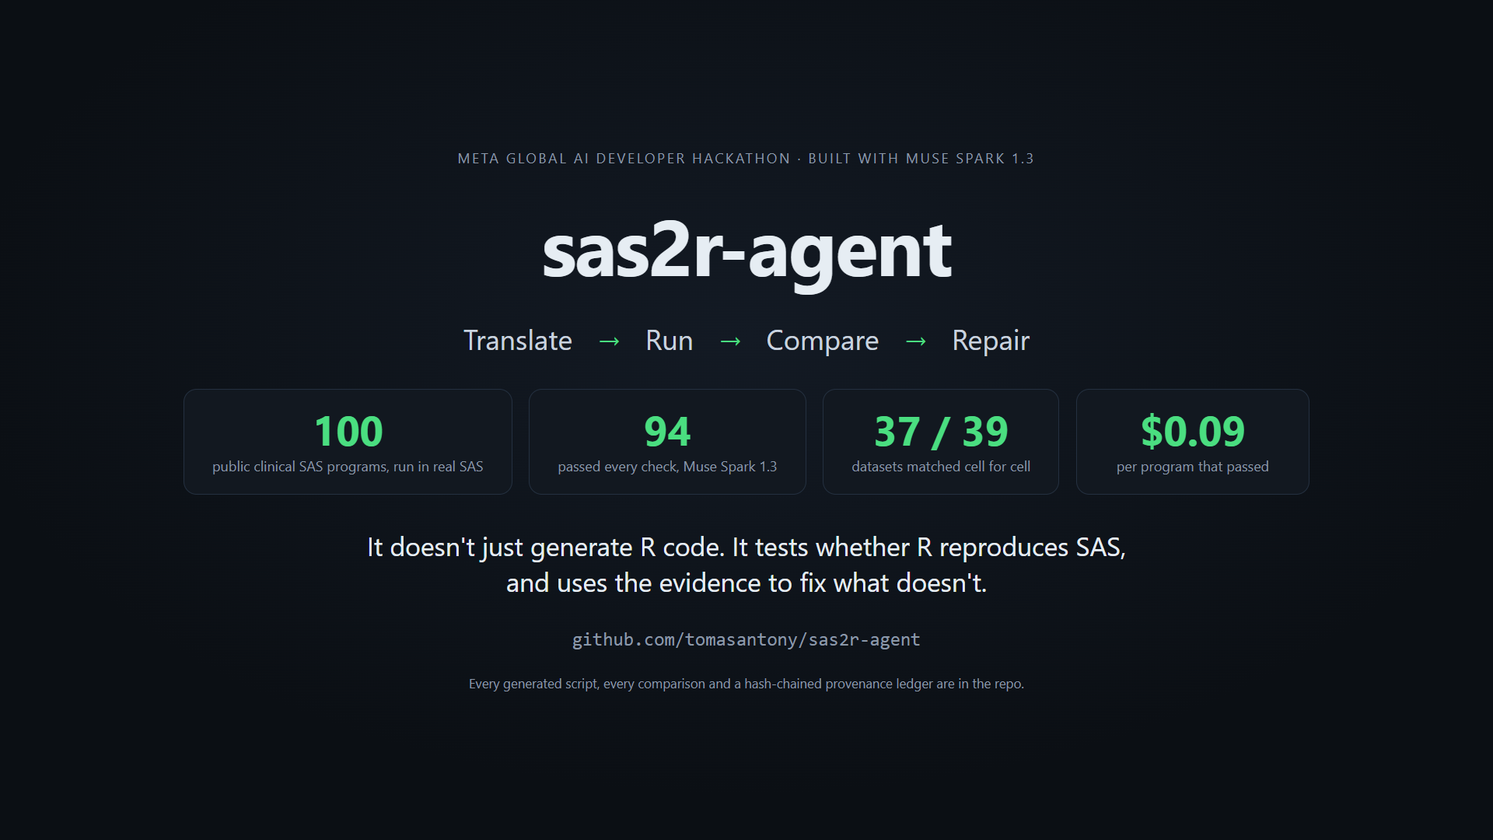
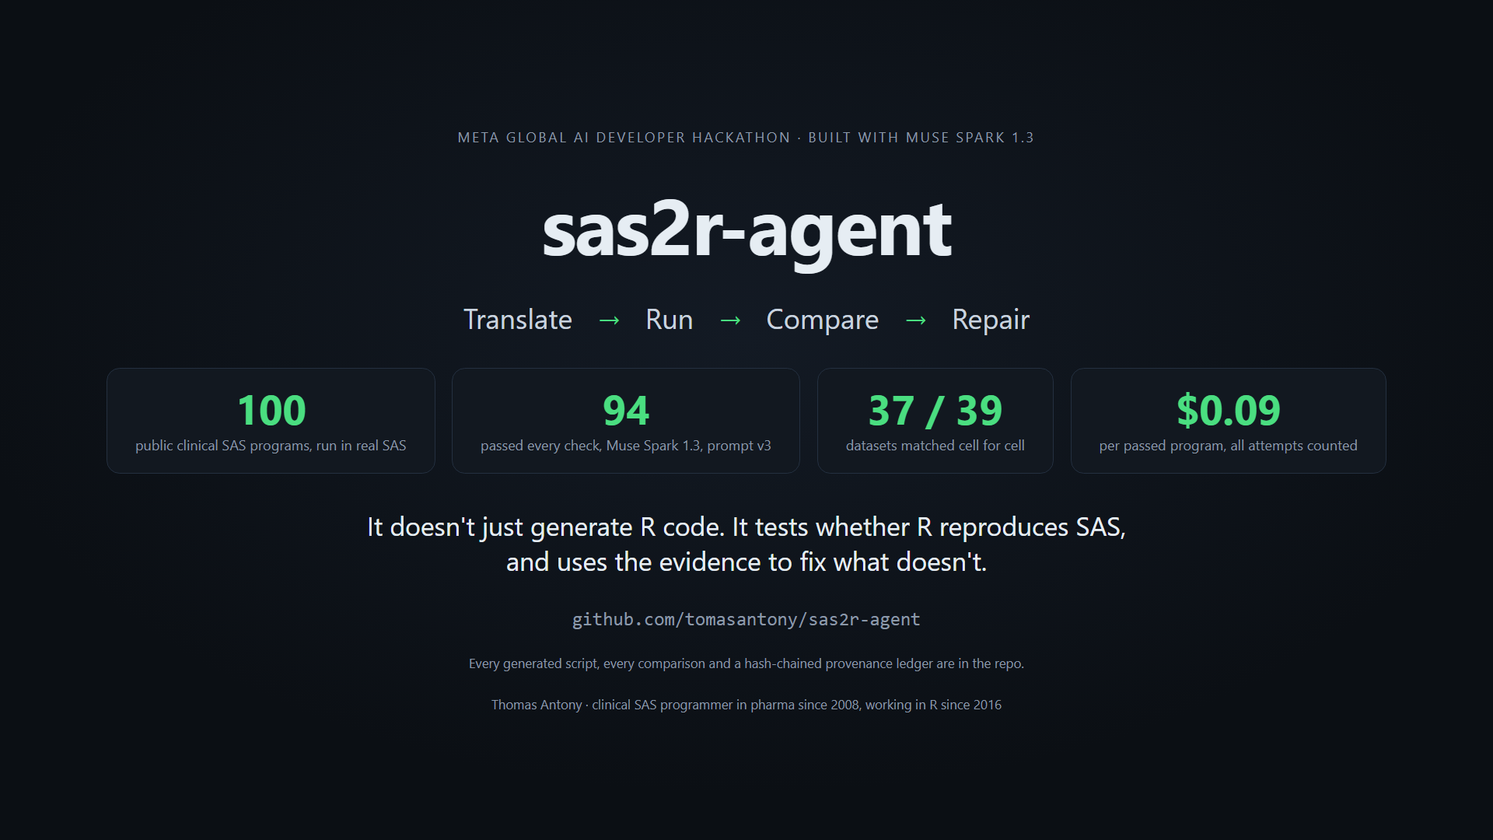
Demo v10: title card, author's experience, punch-ins, last "equivalent" labels
- Narration opens with the industry context and the author's background
  (clinical SAS since 2008, R since 2016) and ends the problem statement with
  why the agent exists; figure line says "by eye" so it does not contradict the
  stated limit; several lines tightened; voice rate +4% to stay under 3 minutes.
- docs/demo_title.html: problem card with the SAS and R logos shown under the
  first line; byline on it and on the end card; README intro carries the same.
- Dashboard: detail panel and grid tooltips say "passed every check";
  presentation parameter ?hl=prov,prov outlines scorecard rows.
- demo_compare.html header and demo_flow.html labels relabelled from
  "equivalent" to "passed every check"; closing tiles note prompt v3 and that
  the cost per passed program counts all attempts.
- demo_terminal.html font enlarged; the video punches in on the P036 lines and
  the ledger lines.

Claude-Session: https://claude.ai/code/session_01KvXKbV2yUgGbFLyG5GdHhj

diff --git a/docs/demo_title.html b/docs/demo_title.html
@@ -1,0 +1,27 @@
+<!doctype html>
+<html lang="en"><head><meta charset="utf-8"><title>Why SAS to R</title>
+<style>
+:root{--bg:#0b0f14;--panel:#121820;--line:#243040;--ink:#e6edf3;--mute:#8b98a8;--green:#4ade80;--amber:#fbbf24}
+*{box-sizing:border-box}html,body{margin:0;width:1600px;height:900px;overflow:hidden;background:radial-gradient(1200px 700px at 50% 35%,#131a24 0%,#0b0f14 70%);color:var(--ink);font-family:"Segoe UI",Inter,system-ui,sans-serif}
+.wrap{height:900px;display:flex;flex-direction:column;align-items:center;justify-content:center;gap:34px;text-align:center;padding:0 90px}
+.eyebrow{font-size:16px;letter-spacing:.14em;text-transform:uppercase;color:var(--mute)}
+.logos{display:flex;align-items:center;gap:56px}
+.logo.sas{height:120px;width:auto}.logo.r{height:130px;width:auto}
+.arr{font-size:88px;color:var(--green);line-height:1}
+h1{margin:0;font-size:50px;font-weight:650;line-height:1.2;letter-spacing:-.01em;max-width:1300px}
+.tiles{display:flex;gap:18px;margin-top:6px}
+.tile{background:var(--panel);border:1px solid var(--line);border-radius:14px;padding:22px 30px;width:420px}
+.tile b{display:block;font-size:40px;font-weight:700;color:var(--green);line-height:1.05}.tile span{display:block;margin-top:10px;font-size:17px;color:#c9d3df;line-height:1.35}
+.tile.warn b{color:var(--amber)}
+.by{font-size:19px;color:var(--mute);margin-top:4px}
+</style></head><body><div class="wrap">
+  <div class="eyebrow">Clinical trial reporting</div>
+  <div class="logos"><svg viewBox="0 0 129.25 53.07" class="logo sas"><path fill="#1f8fe0" d="M 18.46875,0 C 16.638866,-0.041377236 14.748438,0.1725 12.8125,0.65625 C 3.86,2.8925 -6.16125,14.40875 4.78125,27.6875 L 11.3125,35.59375 L 13.15625,37.84375 C 14.39375,39.315 16.41875,39.28875 17.90625,38.0625 C 19.40125,36.829998 19.82625,34.80875 18.59375,33.3125 C 18.592173,33.310397 18.071121,32.679752 17.84375,32.40625 L 17.875,32.40625 C 17.402936,31.838361 17.300473,31.743127 16.8125,31.15625 C 14.448752,28.313409 11.75,25.03125 11.75,25.03125 C 6.9987503,19.265 9.11875,12.14125 15.5625,8.09375 C 21.24,4.5275001 31.65875,5.80125 35.25,11.65625 C 32.988202,4.9805465 26.398246,0.17930136 18.46875,0 z M 19.78125,13.9375 C 18.937031,13.90875 18.055625,14.230625 17.3125,14.84375 C 15.815001,16.0775 15.39375,18.10125 16.625,19.59375 C 16.627499,19.597501 16.77625,19.7825 17.03125,20.09375 C 19.863614,23.496657 23.625,28.0625 23.625,28.0625 C 28.3775,33.82875 26.25625,40.92125 19.8125,44.96875 C 14.136251,48.53375 3.71625,47.2575 0.125,41.40625 C 2.90875,49.618751 12.23875,54.9875 22.5625,52.40625 C 31.5175,50.166248 41.53625,38.6825 30.59375,25.40625 L 22.9375,16.15625 L 22.0625,15.0625 C 21.44375,14.326875 20.625469,13.96625 19.78125,13.9375 z"/><path fill="#ffffff" d="M 53.53125,6.3125 C 47.8625,6.3125 41.374998,9.2362506 41.375,16.28125 C 41.375,22.9875 46.708752,24.869999 52,26.15625 C 57.355,27.4425 62.656249,28.187498 62.65625,32.65625 C 62.65625,37.05875 58.121251,37.875002 54.78125,37.875 C 50.3725,37.875 46.218751,36.27125 46.03125,31.125 L 40.6875,31.125 C 41,39.79375 47.161249,42.968749 54.46875,42.96875 C 61.085,42.96875 68.343749,40.27125 68.34375,31.9375 C 68.34375,25.16375 63.041251,23.25625 57.6875,21.96875 C 52.7125,20.6825 47.031249,20.00625 47.03125,15.875 C 47.03125,12.3525 50.75625,11.40625 53.96875,11.40625 C 57.49875,11.40625 61.151251,12.810001 61.53125,17.28125 L 66.875,17.28125 C 66.435,8.74625 60.712498,6.3125001 53.53125,6.3125 z M 84.40625,6.3125 C 77.159998,6.3125001 70.90625,9.3625 70.59375,18.03125 L 75.9375,18.03125 C 76.190003,12.883749 79.5275,11.40625 84.0625,11.40625 C 87.466253,11.40625 91.3125,12.20625 91.3125,17.21875 C 91.312501,21.553749 86.2975,21.155 80.375,22.375 C 74.833751,23.526251 69.34375,25.23 69.34375,33.15625 C 69.343748,40.133748 74.20125,42.96875 80.125,42.96875 C 84.656249,42.968749 88.6025,41.255 91.5625,37.53125 C 91.562499,41.322498 93.3525,42.96875 96.125,42.96875 C 97.823751,42.968749 98.9925,42.60875 99.9375,42 L 99.9375,37.53125 C 99.244997,37.802498 98.7525,37.875 98.3125,37.875 C 96.612501,37.875002 96.625,36.68 96.625,33.96875 L 96.625,15.9375 C 96.624998,7.7424996 90.265,6.3125 84.40625,6.3125 z M 112.40625,6.3125 C 106.7375,6.3125 100.25,9.2362506 100.25,16.28125 C 100.25,22.9875 105.61625,24.869999 110.90625,26.15625 C 116.2625,27.4425 121.5625,28.187498 121.5625,32.65625 C 121.5625,37.05875 117.02625,37.875002 113.6875,37.875 C 109.2775,37.875 105.125,36.27125 104.9375,31.125 L 99.5625,31.125 C 99.87625,39.79375 106.06875,42.968749 113.375,42.96875 C 119.9875,42.96875 127.21875,40.27125 127.21875,31.9375 C 127.21875,25.16375 121.91625,23.25625 116.5625,21.96875 C 111.58875,20.6825 105.9375,20.00625 105.9375,15.875 C 105.9375,12.3525 109.63125,11.40625 112.84375,11.40625 C 116.37,11.40625 120.025,12.810001 120.40625,17.28125 L 125.78125,17.28125 C 125.3425,8.74625 119.59,6.3125001 112.40625,6.3125 z M 91.25,24.0625 L 91.25,29.96875 C 91.25,33.1525 88.36875,37.875 81.3125,37.875 C 78.040002,37.875002 75,36.51375 75,32.71875 C 75.000003,28.452501 78.0375,27.115 81.5625,26.4375 C 85.15375,25.761251 89.1725,25.6875 91.25,24.0625 z"/></svg><div class="arr">&#8594;</div><svg viewBox="0 0 724 561" class="logo r"><defs><linearGradient id="g1" x1="0" x2="1" y1="0" y2="1"><stop offset="0" stop-color="#cbced0"/><stop offset="1" stop-color="#84838b"/></linearGradient><linearGradient id="g2" x1="0" x2="1" y1="0" y2="1"><stop offset="0" stop-color="#276dc3"/><stop offset="1" stop-color="#165caa"/></linearGradient></defs><path d="M361.453,485.937 C162.329,485.937 0.906,377.828 0.906,244.469 C0.906,111.109 162.329,3.000 361.453,3.000 C560.578,3.000 722.000,111.109 722.000,244.469 C722.000,377.828 560.578,485.937 361.453,485.937 ZM416.641,97.406 C265.289,97.406 142.594,171.314 142.594,262.484 C142.594,353.654 265.289,427.562 416.641,427.562 C567.992,427.562 679.687,377.033 679.687,262.484 C679.687,147.971 567.992,97.406 416.641,97.406 Z" fill="url(#g1)" fill-rule="evenodd"/><path d="M550.000,377.000 C550.000,377.000 571.822,383.585 584.500,390.000 C588.899,392.226 596.510,396.668 602.000,402.500 C607.378,408.212 610.000,414.000 610.000,414.000 L696.000,559.000 L557.000,559.062 L492.000,437.000 C492.000,437.000 478.690,414.131 470.500,407.500 C463.668,401.969 460.755,400.000 454.000,400.000 C449.298,400.000 420.974,400.000 420.974,400.000 L421.000,558.974 L298.000,559.026 L298.000,152.938 L545.000,152.938 C545.000,152.938 657.500,154.967 657.500,262.000 C657.500,369.033 550.000,377.000 550.000,377.000 ZM496.500,241.024 L422.037,240.976 L422.000,310.026 L496.500,310.002 C496.500,310.002 531.000,309.895 531.000,274.877 C531.000,239.155 496.500,241.024 496.500,241.024 Z" fill="url(#g2)" fill-rule="evenodd"/></svg></div>
+  <h1>Every legacy SAS program has to be rewritten in R,<br>and the R has to produce the same numbers.</h1>
+  <div class="tiles">
+    <div class="tile"><b>SAS</b><span>the standard for cleaning, analysing and reporting trial data to regulators such as the FDA</span></div>
+    <div class="tile"><b>R</b><span>where the industry is moving: open source, and now accepted in submissions</span></div>
+    <div class="tile warn"><b>30 to 50%</b><span>of the programming effort goes to dual programming: rewriting, then checking against the original</span></div>
+  </div>
+  <div class="by">Thomas Antony &middot; clinical SAS programmer in pharma since 2008, working in R since 2016</div>
+</div></body></html>

diff --git a/dashboard/index.html b/dashboard/index.html
@@ -48,6 +48,7 @@ th, td { padding: 7px 10px; border-bottom: 1px solid var(--grid); text-align: ri
 th:first-child, td:first-child, th.l, td.l { text-align: left; }
 th { color: var(--text-2); font-weight: 500; font-size: 13px; }
 tbody tr:hover { background: var(--accent-bg); }
+tbody tr.hl td { background: #fff3d6; border-top: 2px solid #e0961b; border-bottom: 2px solid #e0961b; }
 .tag { display: inline-block; font-size: 11px; padding: 1px 7px; border-radius: 999px; border: 1px solid currentColor; margin-right: 6px; vertical-align: middle; }
 .tag.meta { color: var(--meta); } .tag.baseline { color: var(--baseline); }
 .scroll { overflow-x: auto; }
@@ -182,11 +183,13 @@ a { color: var(--meta); }
     const rows = visible().map(p => [p, summary(p)]).sort((a, b) => b[1].equivalent_pct - a[1].equivalent_pct || a[1].cost_per_equivalent_usd - b[1].cost_per_equivalent_usd);
     $("#board tbody").innerHTML = rows.map(([p, o]) => {
       const [pin, pout] = o.list_price_per_m || [0, 0];
-      return `<tr><td class="l"><span class="tag ${roleOf(p)}">${roleOf(p)}</span>${label(p)}<div style="font-size:11px;color:var(--muted)">${p}${board[p].note ? " · " + board[p].note : ""}</div></td>
+      return `<tr data-p="${p}"><td class="l"><span class="tag ${roleOf(p)}">${roleOf(p)}</span>${label(p)}<div style="font-size:11px;color:var(--muted)">${p}${board[p].note ? " · " + board[p].note : ""}</div></td>
         <td class="l">v${(o.prompt_versions || [1]).join("+")}</td><td>${o.programs}</td><td>${pct(o.runs_pct)}</td><td>${pct(o.produced_all_pct)}</td><td><b>${pct(o.equivalent_pct)}</b></td>
         <td>${fmt(o.mean_iterations, 2)}</td><td>${fmt(o.mean_seconds, 0)}</td><td>${fmt(pin, 2)} / ${fmt(pout, 2)}</td>
         <td>$${fmt(o.cost_usd, 2)}</td><td>$${fmt(o.cost_per_program_usd, 3)}</td><td>${o.cost_per_equivalent_usd == null ? "n/a" : "$" + fmt(o.cost_per_equivalent_usd, 3)}</td></tr>`;
     }).join("");
+    const hl = new URLSearchParams(location.search).get("hl");  // presentation mode: ?hl=prov,prov outlines those rows
+    if (hl) hl.split(",").forEach(p => { const tr = $(`#board tbody tr[data-p="${p}"]`); if (tr) tr.classList.add("hl"); });
   }
 
   function grid() {
@@ -204,7 +207,7 @@ a { color: var(--meta); }
         let cls = "";
         if (r) cls = r.equivalent ? "ok" : (r.runs && r.best_score >= 0.9 ? "near" : "bad");
         const sel = selected && selected[0] === p && selected[1] === x.id ? " sel" : "";
-        h += `<div class="cell ${cls}${sel}" data-p="${p}" data-id="${x.id}" data-tip="${x.id} · ${label(p)}${r ? ` · ${r.equivalent ? "equivalent" : "not equivalent"} · score ${fmt(r.best_score, 3)} · ${r.iterations} attempt${r.iterations === 1 ? "" : "s"}` : " · not run"}${x.family ? " · " + x.family : ""}"></div>`;
+        h += `<div class="cell ${cls}${sel}" data-p="${p}" data-id="${x.id}" data-tip="${x.id} · ${label(p)}${r ? ` · ${r.equivalent ? "passed every check" : "did not pass"} · score ${fmt(r.best_score, 3)} · ${r.iterations} attempt${r.iterations === 1 ? "" : "s"}` : " · not run"}${x.family ? " · " + x.family : ""}"></div>`;
       });
     });
     g.innerHTML = h;
@@ -222,7 +225,7 @@ a { color: var(--meta); }
     const base = `../runs/${p}/${id}`;
     d.innerHTML = `<h2 style="margin-top:0">${id} · ${label(p)}</h2><div class="row">
       <span class="pill">${r.family || ""}</span>
-      <span class="${r.equivalent ? "ok-t" : "bad-t"}">${r.equivalent ? "equivalent to SAS" : "not equivalent"}</span>
+      <span class="${r.equivalent ? "ok-t" : "bad-t"}">${r.equivalent ? "passed every check" : "did not pass every check"}</span>
       <span>best score ${fmt(r.best_score, 3)}</span><span>${r.iterations} attempt(s)</span>
       <span>best attempt ${r.best_attempt || "?"}</span></div><p class="foot">loading…</p>`;
     const n = r.best_attempt || r.iterations || 1;

diff --git a/docs/demo_flow.html b/docs/demo_flow.html
@@ -51,7 +51,7 @@ svg.wires{position:absolute;inset:0;width:100%;height:100%}
 <div class="lab" style="left:1144px;top:230px"><b>Provenance ledger</b><span>hashes of every attempt,<br>chained, append-only</span></div>
 <div class="node on" style="left:1144px;top:400px"><svg class="ic" viewBox="0 0 24 24" fill="none" stroke="#4ade80" stroke-width="1.8" stroke-linecap="round"><path d="M4 20V10M10 20V4M16 20v-8M22 20H2"/></svg><div class="badge"><svg viewBox="0 0 24 24" fill="none" stroke="#fff" stroke-width="3.5"><path d="M5 12l5 5 9-10"/></svg></div></div>
 <div class="lab" style="left:1144px;top:470px"><b>Leaderboard</b><span>passed or not,<br>cost per passed program</span></div>
-<div class="tag" style="left:1000px;top:120px">equivalent</div>
+<div class="tag" style="left:1000px;top:120px">passed</div>
 <div class="tag amb" style="left:470px;top:66px">differences and the R log go back to the model: repair, up to 3 tries</div>
 <div class="tag" style="left:40px;top:300px;color:#f97316;border-color:rgba(249,115,22,.3)">SAS program</div>
 </div>
@@ -59,9 +59,9 @@ svg.wires{position:absolute;inset:0;width:100%;height:100%}
 <table><tr><th>Program</th><th>Attempt</th><th>Status</th><th>Values in the SAS output found in R</th><th>Result</th></tr>
 <tr><td class="mono">P009</td><td>1</td><td class="ok">✔ Match</td><td>129 of 129</td><td>dataset ae: 54 rows × 12 columns, cell for cell</td></tr>
 <tr><td class="mono">P036</td><td>1</td><td class="df">✖ Differences</td><td>96 of 106</td><td>10 missing values sent back for repair</td></tr>
-<tr><td class="mono">P036</td><td>2</td><td class="ok">✔ Match</td><td>106 of 106</td><td>equivalent, 2 attempts</td></tr>
+<tr><td class="mono">P036</td><td>2</td><td class="ok">✔ Match</td><td>106 of 106</td><td>passed every check, 2 attempts</td></tr>
 <tr><td class="mono">P040</td><td>1</td><td class="df">✖ Differences</td><td>265 of 373</td><td>108 missing values sent back for repair</td></tr>
-<tr><td class="mono">P040</td><td>2</td><td class="ok">✔ Match</td><td>357 of 373</td><td>equivalent, above the 0.95 threshold</td></tr>
+<tr><td class="mono">P040</td><td>2</td><td class="ok">✔ Match</td><td>357 of 373</td><td>passed every check, above the 0.95 threshold</td></tr>
 </table></div>
 </div>
 <div class="side">

diff --git a/docs/demo_closing.html b/docs/demo_closing.html
@@ -19,11 +19,12 @@ h1{margin:0;font-size:84px;font-weight:700;letter-spacing:-.02em}
   <div class="steps">Translate <span>&#8594;</span> Run <span>&#8594;</span> Compare <span>&#8594;</span> Repair</div>
   <div class="tiles">
     <div class="tile"><b>100</b><span>public clinical SAS programs, run in real SAS</span></div>
-    <div class="tile"><b>94</b><span>passed every check, Muse Spark 1.3</span></div>
+    <div class="tile"><b>94</b><span>passed every check, Muse Spark 1.3, prompt v3</span></div>
     <div class="tile"><b>37 / 39</b><span>datasets matched cell for cell</span></div>
-    <div class="tile"><b>$0.09</b><span>per program that passed</span></div>
+    <div class="tile"><b>$0.09</b><span>per passed program, all attempts counted</span></div>
   </div>
   <div class="line">It doesn't just generate R code. It tests whether R reproduces SAS,<br>and uses the evidence to fix what doesn't.</div>
   <div class="url">github.com/tomasantony/sas2r-agent</div>
   <div class="small">Every generated script, every comparison and a hash-chained provenance ledger are in the repo.</div>
+  <div class="small">Thomas Antony &middot; clinical SAS programmer in pharma since 2008, working in R since 2016</div>
 </div></body></html>

diff --git a/docs/demo_compare.html b/docs/demo_compare.html
@@ -5,7 +5,7 @@ main{padding:16px 40px} h1{font-size:24px;margin:0 0 4px} .sub{color:#5b6472;mar
 .sas h2{color:#b54b1f} .r h2{color:#1f5fb5} img{display:block;max-height:440px;max-width:100%;margin:0 auto;border:1px solid #d9dee5;border-radius:6px;background:#fff}
 pre{margin:0;background:#fff;border:1px solid #d9dee5;border-radius:6px;padding:8px 14px;font:14px/1.3 Consolas,"Cascadia Mono",monospace;white-space:pre}
 .ok{display:inline-block;margin-left:10px;color:#1d7a3e;font-weight:600;font-size:14px}</style></head><body><main>
-<h1>What "equivalent" means <span class="ok">P040 figure: match &nbsp;·&nbsp; P053 statistics table: 106 of 106 numbers</span></h1>
+<h1>What "passed every check" means <span class="ok">P040 figure: match &nbsp;·&nbsp; P053 statistics table: 106 of 106 numbers</span></h1>
 <p class="sub">Left: the output SAS 9.4 produced. Right: the output of the R script that Muse Spark 1.3 wrote, run in the sandbox.</p>
 <div class="row">
  <div class="col sas"><h2>SAS reference (P040, PROC LIFETEST plot)</h2><img src="demo_assets/P040_sas_kmplot.png" alt="SAS KM plot"></div>

diff --git a/docs/demo_terminal.html b/docs/demo_terminal.html
@@ -1,6 +1,6 @@
 <!doctype html><html><head><meta charset="utf-8"><title>sas2r-agent run</title>
-<style>html,body{margin:0;background:#0f1117;color:#d6dbe3;font:16px/1.6 Consolas,"Cascadia Mono",monospace}
-pre{margin:0;padding:28px 36px;white-space:pre-wrap} .p{color:#7cc4ff} .ok{color:#5ad17a} .warn{color:#f2c94c}</style></head>
+<style>html,body{margin:0;background:#0f1117;color:#d6dbe3;font:20px/1.6 Consolas,"Cascadia Mono",monospace}
+pre{margin:0;padding:22px 30px;white-space:pre-wrap} .p{color:#7cc4ff} .ok{color:#5ad17a} .warn{color:#f2c94c}</style></head>
 <body><pre><span class=p>$</span> python -m agent run --provider muse-spark --ids P009 P036 --tag demo
 muse-spark: 2 programs to run; provider total so far $30.08 over all its runs (3,843,801 in / 5,947,578 out); budget $40.00
 P009: translated=True runs=True all_outputs=True <span class=ok>equivalent=True</span> score=1.000 iters=1 tokens=3797/13043 73s  cost=$0.060

diff --git a/docs/demo_narration.md b/docs/demo_narration.md
@@ -4,15 +4,16 @@ Word for word, with the visual shown for each line. Generated from `demo_narrati
 
 | line | visual | words |
 |---|---|---|
-| s01 | docs/demo_opening.html, SAS program and output beside the generated R and its output | I translate SAS programs to R for clinical trials. A trial's datasets, tables, listings and figures all come out of SAS programs, and the industry is moving to R. Each program has to be rewritten and checked against the original, because a script that runs cleanly can still produce the wrong numbers. That checking is thirty to fifty percent of the programming effort, and this year the FDA started asking sponsors for this kind of cross-validation. |
-| s02 | dashboard top, bars | So I built sas2r-agent, with Meta's Muse Spark 1.3. It writes the R, runs it, finds the numbers that differ, and repairs its own translation. This is the leaderboard, over one hundred programs. |
-| s03 | docs/demo_flow.html, the loop as a node graph | One loop, four roles. The context builder reads the SAS program, its inputs and outputs. Muse Spark 1.3, through the Meta Model API, writes one R script. A sandbox with no network runs it. The comparator checks the outputs against the SAS reference and sends the differences back. Up to three tries. |
-| s04 | terminal page, run output, then docs/demo_repair.html (the P036 miss and the repair) | Two programs. The first matches SAS straight away. The second doesn't: the comparator lists the missing values, sends them back, and the second attempt matches. |
-| s04b | docs/demo_compare.html | This is what a match looks like. The SAS figure on the left, the figure from the generated R on the right: same curves, same numbers at risk. Below, a statistics table, identical to four decimals. |
-| s05 | terminal page, verify output | Every attempt leaves a provenance trail: hashes of the prompt, the answer, the script, every output and the SAS reference, chained in an append-only ledger. |
-| s06 | dashboard bars | The benchmark is one hundred public SAS programs, run in real SAS. Muse Spark 1.3 passes every check on ninety-four. On the thirty-nine that produce datasets it matches thirty-seven cell for cell, the same as Claude Opus, and it passes three programs Claude misses, at half the cost. |
-| s07 | scorecard, $ per passed column | The metric that matters is cost per matched program, not cost per call. Muse Spark is about ten cents. Muse Spark Open, the open weights, scores eighty-five on the same harness, so a sponsor can run this inside its own firewall. |
-| s08 | program grid, then P079 under prompt v1 | The agent learns from its own misses. Here's a listing the first prompt got wrong: only four of three hundred and twelve numbers turned up in the R output. |
-| s09 | P079 under prompt v3 | The analysis of those misses became prompt version two: eighty-six to ninety-five percent. Version three fixed the five that were left and lost six others: ninety-four, within the swing between two runs. Each version is its own row, so the change is measured, not claimed. |
-| s10 | generated R in the detail panel | Any cell opens the generated R, the comparison and the provenance record. All fifteen hundred scripts are in the repo, one folder per attempt. |
-| s11 | README top, then docs/demo_closing.html (end card) | One limit: figures are checked for being produced, not compared. The benchmark is my earlier work; the agent was built in the window. sas2r-agent doesn't just generate R code. It tests whether R reproduces SAS, and uses the evidence to fix what doesn't. |
+| s01a | docs/demo_title.html, SAS to R problem card | SAS is the industry-standard software used to clean, analyze, and report clinical trial data for regulatory submissions to agencies like the FDA. Today, the biopharma industry is moving to R, a modern open-source platform. I have been a clinical SAS programmer in pharma since 2008, and have used R since 2016. |
+| s01b | docs/demo_opening.html, SAS program and output beside the generated R and its output | However, sponsors hold vast libraries of legacy SAS programs that must be converted to R code, and each must be rigorously validated against the original. A script that runs cleanly can still produce incorrect numbers, making dual programming 30 to 50% of the entire programming effort. That bottleneck is why I built sas2r-agent. |
+| s02 | dashboard top, bars | It runs on Meta's Muse Spark 1.3 and was built in the hackathon window. It writes the R, runs it, finds the numbers that differ, and repairs its own translation. The leaderboard: one hundred programs. |
+| s03 | docs/demo_flow.html, the loop as a node graph | One loop, four roles. The context builder reads the SAS program, its inputs and outputs. Muse Spark 1.3, through the Meta Model API, writes one R script. A sandbox runs it. The comparator checks the outputs against the SAS reference and sends the differences back, up to three times. |
+| s04 | terminal page, run output (punched in on P036), then docs/demo_repair.html (the P036 miss and the repair) | Two programs. The first matches SAS straight away. The second doesn't: the comparator lists the missing values, sends them back, and the second attempt matches. |
+| s04b | docs/demo_compare.html | A match, by eye: the SAS figure on the left, the figure from the generated R on the right. Same curves, same numbers at risk. Below, the statistics table the comparator checks, identical to four decimals. |
+| s05 | terminal page, verify output (punched in on the ledger lines) | Every attempt leaves a provenance trail: hashes of the prompt, the answer, the script, the outputs and the SAS reference, in an append-only ledger. |
+| s06 | dashboard bars | One hundred public SAS programs, run in real SAS. Muse Spark 1.3 passes every check on ninety-four. On the thirty-nine that produce datasets it matches thirty-seven cell for cell, the same as Claude Opus, and it passes three programs Claude misses, at half the cost. |
+| s07 | scorecard, Claude Opus and Muse Spark v3 rows outlined, $ per passed column | What matters is cost per passed program, not per call. Muse Spark: about ten cents. Muse Spark Open, the open weights, scores eighty-five, so a sponsor can run this inside its own firewall. |
+| s08 | program grid, then P079 under prompt v1 | The agent learns from its misses. Here's a listing prompt version one got wrong: four of three hundred and twelve numbers found in the R output. |
+| s09 | P079 under prompt v3 | Analysing those misses gave prompt version two: eighty-six to ninety-five. Version three fixed the five that were left and lost six others: ninety-four, within the swing between two runs. |
+| s10 | generated R in the detail panel | Any cell opens the generated R, the comparison and the provenance record. All fifteen hundred scripts are in the repo. |
+| s11 | README top, then docs/demo_closing.html (end card) | One limit: figures are checked for being produced, not compared. The benchmark is my earlier work. sas2r-agent doesn't just generate R code. It tests whether R reproduces SAS, and uses the evidence to fix what doesn't. |

diff --git a/README.md b/README.md
@@ -3,7 +3,8 @@
 **Muse Spark translates clinical SAS programs to R and shows its work: 94 of 100 benchmark
 programs reproduce the SAS output, and every attempt is hashed into an audit ledger.**
 
-Built solo for the Meta Global AI Developer Hackathon (Indie track, 26 October to
+Built solo by Thomas Antony, a clinical SAS programmer in pharma since 2008 who has worked in R
+since 2016, for the Meta Global AI Developer Hackathon (Indie track, 26 October to
 4 November 2026). Demo video: *link added at submission*. Interactive leaderboard:
 `dashboard/index.html` (see [Leaderboard](#leaderboard)).
 
@@ -11,6 +12,7 @@ Built solo for the Meta Global AI Developer Hackathon (Indie track, 26 October t
 
 ## Who this is for
 
+I have programmed SAS in the pharmaceutical industry since 2008 and R since 2016, and
 I translate SAS programs to R for clinical trials. Every trial's datasets, tables,
 listings and figures are produced by SAS programs, and the industry is moving to R:
 Novo Nordisk made the first R-based FDA submission in 2021, Roche the first
